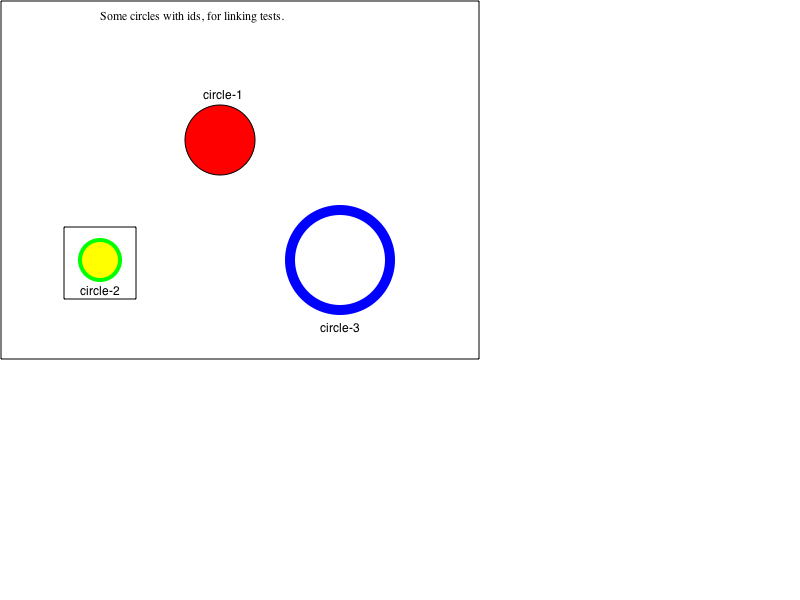
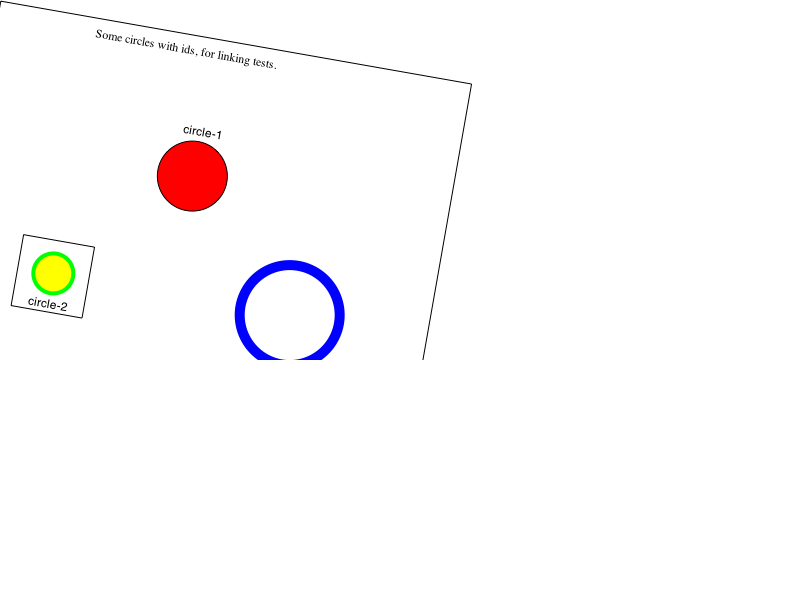
2009-10-08  Nikolas Zimmermann  <nzimmermann@rim.com>
Reviewed by Eric Seidel.

        Move SVGFitToViewBox ANIMATED_* macros in classes that inherit from it
        https://bugs.webkit.org/show_bug.cgi?id=30230

        This patch also devirtualizes viewBoxToViewTransform(), is it's superflous.
        viewBoxToViewTransform() is now a simple static heper function in SVGFitToViewBox.
        As a result, the SVGSVGElement::viewBoxToViewTransform() function now resuses the same logic.

        As side-effect this patch fixes svg/custom/linking-a-03-b-transform.svg, the return
        statement in SVGSVGElement::viewBoxToViewTransform() was clearly wrong.

git-svn-id: https://svn.webkit.org/repository/webkit/trunk@49312 268f45cc-cd09-0410-ab3c-d52691b4dbfc

diff --git a/WebCore/svg/SVGFitToViewBox.h b/WebCore/svg/SVGFitToViewBox.h
@@ -39,16 +39,18 @@ namespace WebCore {
         virtual ~SVGFitToViewBox();
 
         bool parseViewBox(const UChar*& start, const UChar* end, float& x, float& y, float& w, float& h, bool validate = true);
-        virtual TransformationMatrix viewBoxToViewTransform(float viewWidth, float viewHeight) const;
+        static TransformationMatrix viewBoxToViewTransform(const FloatRect& viewBoxRect, SVGPreserveAspectRatio*, float viewWidth, float viewHeight);
 
         bool parseMappedAttribute(MappedAttribute*);
         bool isKnownAttribute(const QualifiedName&);
 
         virtual const SVGElement* contextElement() const = 0;
 
-    private:
-        ANIMATED_PROPERTY_DECLARATIONS(SVGFitToViewBox, SVGFitToViewBoxIdentifier, SVGNames::viewBoxAttrString, FloatRect, ViewBox, viewBox)
-        ANIMATED_PROPERTY_DECLARATIONS(SVGFitToViewBox, SVGFitToViewBoxIdentifier, SVGNames::preserveAspectRatioAttrString, SVGPreserveAspectRatio, PreserveAspectRatio, preserveAspectRatio)
+    protected:
+        virtual SVGAnimatedTypeValue<FloatRect>::DecoratedType viewBoxBaseValue() const = 0;
+        virtual void setViewBoxBaseValue(SVGAnimatedTypeValue<FloatRect>::DecoratedType type) = 0;
+
+        virtual SVGAnimatedTypeValue<SVGPreserveAspectRatio>::DecoratedType preserveAspectRatioBaseValue() const = 0;
     };
 
 } // namespace WebCore

diff --git a/WebCore/svg/SVGSVGElement.cpp b/WebCore/svg/SVGSVGElement.cpp
@@ -68,6 +68,8 @@ SVGSVGElement::SVGSVGElement(const QualifiedName& tagName, Document* doc)
     , m_width(this, SVGNames::widthAttr, LengthModeWidth, "100%")
     , m_height(this, SVGNames::heightAttr, LengthModeHeight, "100%") 
     , m_externalResourcesRequired(this, SVGNames::externalResourcesRequiredAttr, false)
+    , m_viewBox(this, SVGNames::viewBoxAttr)
+    , m_preserveAspectRatio(this, SVGNames::preserveAspectRatioAttr, SVGPreserveAspectRatio::create())
     , m_useCurrentView(false)
     , m_timeContainer(SMILTimeContainer::create(this))
     , m_viewSpec(0)
@@ -514,13 +516,8 @@ TransformationMatrix SVGSVGElement::viewBoxToViewTransform(float viewWidth, floa
             viewBoxRect = currentView()->viewBox();
     } else
         viewBoxRect = viewBox();
-    if (!viewBoxRect.width() || !viewBoxRect.height())
-        return TransformationMatrix();
 
-    TransformationMatrix ctm = preserveAspectRatio()->getCTM(viewBoxRect.x(),
-            viewBoxRect.y(), viewBoxRect.width(), viewBoxRect.height(),
-            0, 0, viewWidth, viewHeight);
-
+    TransformationMatrix ctm = SVGFitToViewBox::viewBoxToViewTransform(viewBoxRect, preserveAspectRatio(), viewWidth, viewHeight);
     if (useCurrentView() && currentView())
         return currentView()->transform()->concatenate().matrix() * ctm;
 

diff --git a/WebCore/svg/SVGFitToViewBox.cpp b/WebCore/svg/SVGFitToViewBox.cpp
@@ -39,8 +39,6 @@ namespace WebCore {
 char SVGFitToViewBoxIdentifier[] = "SVGFitToViewBox";
 
 SVGFitToViewBox::SVGFitToViewBox()
-    : m_viewBox(this, SVGNames::viewBoxAttr)
-    , m_preserveAspectRatio(this, SVGNames::preserveAspectRatioAttr, SVGPreserveAspectRatio::create())
 {
 }
 
@@ -81,15 +79,13 @@ bool SVGFitToViewBox::parseViewBox(const UChar*& c, const UChar* end, float& x, 
     return true;
 }
 
-TransformationMatrix SVGFitToViewBox::viewBoxToViewTransform(float viewWidth, float viewHeight) const
+TransformationMatrix SVGFitToViewBox::viewBoxToViewTransform(const FloatRect& viewBoxRect, SVGPreserveAspectRatio* preserveAspectRatio, float viewWidth, float viewHeight)
 {
-    FloatRect viewBoxRect = viewBox();
+    ASSERT(preserveAspectRatio);
     if (!viewBoxRect.width() || !viewBoxRect.height())
         return TransformationMatrix();
 
-    return preserveAspectRatio()->getCTM(viewBoxRect.x(),
-            viewBoxRect.y(), viewBoxRect.width(), viewBoxRect.height(),
-            0, 0, viewWidth, viewHeight);
+    return preserveAspectRatio->getCTM(viewBoxRect.x(), viewBoxRect.y(), viewBoxRect.width(), viewBoxRect.height(), 0, 0, viewWidth, viewHeight);
 }
 
 bool SVGFitToViewBox::parseMappedAttribute(MappedAttribute* attr)

diff --git a/WebCore/svg/SVGMarkerElement.cpp b/WebCore/svg/SVGMarkerElement.cpp
@@ -51,6 +51,8 @@ SVGMarkerElement::SVGMarkerElement(const QualifiedName& tagName, Document* doc)
     , m_orientType(this, SVGNames::orientAttr, SVG_MARKER_ORIENT_ANGLE)
     , m_orientAngle(this, SVGNames::orientAttr, SVGAngle::create())
     , m_externalResourcesRequired(this, SVGNames::externalResourcesRequiredAttr, false)
+    , m_viewBox(this, SVGNames::viewBoxAttr)
+    , m_preserveAspectRatio(this, SVGNames::preserveAspectRatioAttr, SVGPreserveAspectRatio::create())
 {
     // Spec: If the markerWidth/markerHeight attribute is not specified, the effect is as if a value of "3" were specified.
 }
@@ -62,6 +64,11 @@ SVGMarkerElement::~SVGMarkerElement()
     // is still fully constructed. See <https://bugs.webkit.org/show_bug.cgi?id=21293>.
     if (renderer())
         detach();
+}
+
+TransformationMatrix SVGMarkerElement::viewBoxToViewTransform(float viewWidth, float viewHeight) const
+{
+    return SVGFitToViewBox::viewBoxToViewTransform(viewBox(), preserveAspectRatio(), viewWidth, viewHeight);
 }
 
 void SVGMarkerElement::parseMappedAttribute(MappedAttribute* attr)

diff --git a/WebCore/svg/SVGSVGElement.h b/WebCore/svg/SVGSVGElement.h
@@ -128,7 +128,7 @@ namespace WebCore {
 
         virtual void svgAttributeChanged(const QualifiedName&);
 
-        virtual TransformationMatrix viewBoxToViewTransform(float viewWidth, float viewHeight) const;
+        TransformationMatrix viewBoxToViewTransform(float viewWidth, float viewHeight) const;
 
         void inheritViewAttributes(SVGViewElement*);
 
@@ -153,6 +153,10 @@ namespace WebCore {
                                        SVGNames::externalResourcesRequiredAttrString, bool,
                                        ExternalResourcesRequired, externalResourcesRequired)
 
+        // SVGFitToViewBox
+        ANIMATED_PROPERTY_DECLARATIONS(SVGFitToViewBox, SVGFitToViewBoxIdentifier, SVGNames::viewBoxAttrString, FloatRect, ViewBox, viewBox)
+        ANIMATED_PROPERTY_DECLARATIONS(SVGFitToViewBox, SVGFitToViewBoxIdentifier, SVGNames::preserveAspectRatioAttrString, SVGPreserveAspectRatio, PreserveAspectRatio, preserveAspectRatio)
+ 
         virtual void documentWillBecomeInactive();
         virtual void documentDidBecomeActive();
 

diff --git a/WebCore/svg/SVGPatternElement.cpp b/WebCore/svg/SVGPatternElement.cpp
@@ -66,6 +66,8 @@ SVGPatternElement::SVGPatternElement(const QualifiedName& tagName, Document* doc
     , m_patternTransform(this, SVGNames::patternTransformAttr, SVGTransformList::create(SVGNames::patternTransformAttr))
     , m_href(this, XLinkNames::hrefAttr)
     , m_externalResourcesRequired(this, SVGNames::externalResourcesRequiredAttr, false)
+    , m_viewBox(this, SVGNames::viewBoxAttr)
+    , m_preserveAspectRatio(this, SVGNames::preserveAspectRatioAttr, SVGPreserveAspectRatio::create())
 {
 }
 
@@ -197,7 +199,7 @@ void SVGPatternElement::buildPattern(const FloatRect& targetRect) const
         }
     }
 
-    TransformationMatrix viewBoxCTM = viewBoxToViewTransform(patternBoundaries.width(), patternBoundaries.height()); 
+    TransformationMatrix viewBoxCTM = viewBoxToViewTransform(viewBox(), preserveAspectRatio(), patternBoundaries.width(), patternBoundaries.height()); 
     FloatRect patternBoundariesIncludingOverflow = patternBoundaries;
 
     // Apply objectBoundingBoxMode fixup for patternContentUnits, if viewBox is not set.

diff --git a/WebCore/svg/SVGMarkerElement.h b/WebCore/svg/SVGMarkerElement.h
@@ -58,6 +58,8 @@ namespace WebCore {
         SVGMarkerElement(const QualifiedName&, Document*);
         virtual ~SVGMarkerElement();
 
+        TransformationMatrix viewBoxToViewTransform(float viewWidth, float viewHeight) const;
+
         void setOrientToAuto();
         void setOrientToAngle(PassRefPtr<SVGAngle>);
 
@@ -85,6 +87,10 @@ namespace WebCore {
                                        SVGNames::externalResourcesRequiredAttrString, bool,
                                        ExternalResourcesRequired, externalResourcesRequired)
 
+        // SVGFitToViewBox
+        ANIMATED_PROPERTY_DECLARATIONS(SVGFitToViewBox, SVGFitToViewBoxIdentifier, SVGNames::viewBoxAttrString, FloatRect, ViewBox, viewBox)
+        ANIMATED_PROPERTY_DECLARATIONS(SVGFitToViewBox, SVGFitToViewBoxIdentifier, SVGNames::preserveAspectRatioAttrString, SVGPreserveAspectRatio, PreserveAspectRatio, preserveAspectRatio)
+ 
         RefPtr<SVGResourceMarker> m_marker;
     };
 

diff --git a/WebCore/svg/SVGPatternElement.h b/WebCore/svg/SVGPatternElement.h
@@ -78,6 +78,10 @@ namespace WebCore {
                                        SVGNames::externalResourcesRequiredAttrString, bool,
                                        ExternalResourcesRequired, externalResourcesRequired)
 
+        // SVGFitToViewBox
+        ANIMATED_PROPERTY_DECLARATIONS(SVGFitToViewBox, SVGFitToViewBoxIdentifier, SVGNames::viewBoxAttrString, FloatRect, ViewBox, viewBox)
+        ANIMATED_PROPERTY_DECLARATIONS(SVGFitToViewBox, SVGFitToViewBoxIdentifier, SVGNames::preserveAspectRatioAttrString, SVGPreserveAspectRatio, PreserveAspectRatio, preserveAspectRatio)
+ 
         mutable RefPtr<SVGPaintServerPattern> m_resource;
 
     private:

diff --git a/WebCore/svg/SVGViewElement.h b/WebCore/svg/SVGViewElement.h
@@ -55,6 +55,10 @@ namespace WebCore {
                                        SVGNames::externalResourcesRequiredAttrString, bool,
                                        ExternalResourcesRequired, externalResourcesRequired)
  
+        // SVGFitToViewBox
+        ANIMATED_PROPERTY_DECLARATIONS(SVGFitToViewBox, SVGFitToViewBoxIdentifier, SVGNames::viewBoxAttrString, FloatRect, ViewBox, viewBox)
+        ANIMATED_PROPERTY_DECLARATIONS(SVGFitToViewBox, SVGFitToViewBoxIdentifier, SVGNames::preserveAspectRatioAttrString, SVGPreserveAspectRatio, PreserveAspectRatio, preserveAspectRatio)
+ 
         mutable RefPtr<SVGStringList> m_viewTarget;
     };
 

diff --git a/WebCore/svg/SVGSymbolElement.h b/WebCore/svg/SVGSymbolElement.h
@@ -53,6 +53,9 @@ namespace WebCore {
                                        SVGNames::externalResourcesRequiredAttrString, bool,
                                        ExternalResourcesRequired, externalResourcesRequired)
  
+        // SVGFitToViewBox
+        ANIMATED_PROPERTY_DECLARATIONS(SVGFitToViewBox, SVGFitToViewBoxIdentifier, SVGNames::viewBoxAttrString, FloatRect, ViewBox, viewBox)
+        ANIMATED_PROPERTY_DECLARATIONS(SVGFitToViewBox, SVGFitToViewBoxIdentifier, SVGNames::preserveAspectRatioAttrString, SVGPreserveAspectRatio, PreserveAspectRatio, preserveAspectRatio) 
     };
 
 } // namespace WebCore

diff --git a/WebCore/svg/SVGViewSpec.h b/WebCore/svg/SVGViewSpec.h
@@ -56,6 +56,10 @@ namespace WebCore {
         virtual const SVGElement* contextElement() const;
 
     private:
+        // SVGFitToViewBox
+        ANIMATED_PROPERTY_DECLARATIONS(SVGFitToViewBox, SVGFitToViewBoxIdentifier, SVGNames::viewBoxAttrString, FloatRect, ViewBox, viewBox)
+        ANIMATED_PROPERTY_DECLARATIONS(SVGFitToViewBox, SVGFitToViewBoxIdentifier, SVGNames::preserveAspectRatioAttrString, SVGPreserveAspectRatio, PreserveAspectRatio, preserveAspectRatio)
+ 
         mutable RefPtr<SVGTransformList> m_transform;
         const SVGSVGElement* m_contextElement;
         String m_viewTargetString;

diff --git a/WebCore/svg/SVGViewSpec.cpp b/WebCore/svg/SVGViewSpec.cpp
@@ -36,6 +36,8 @@ namespace WebCore {
 SVGViewSpec::SVGViewSpec(const SVGSVGElement* contextElement)
     : SVGFitToViewBox()
     , SVGZoomAndPan()
+    , m_viewBox(this, SVGNames::viewBoxAttr)
+    , m_preserveAspectRatio(this, SVGNames::preserveAspectRatioAttr, SVGPreserveAspectRatio::create())
     , m_transform(SVGTransformList::create(SVGNames::transformAttr))
     , m_contextElement(contextElement)
 {
